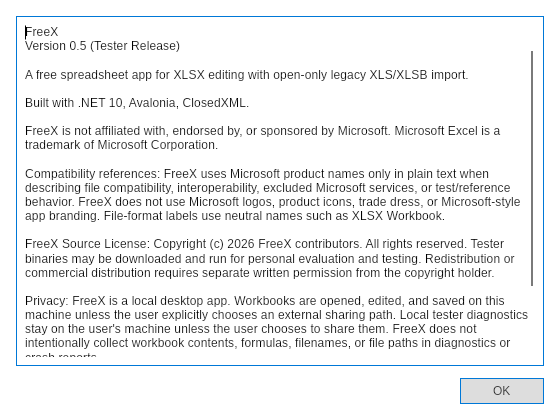
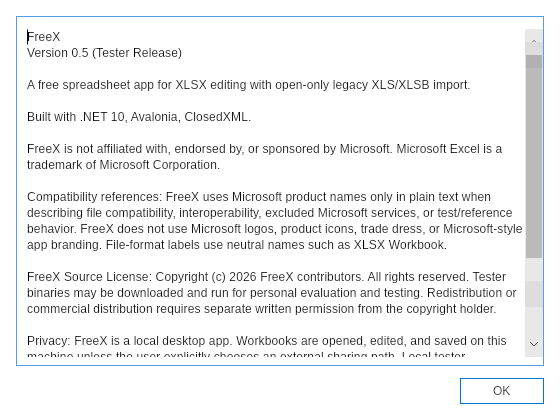
FreeX: align Avalonia About vertical parity

diff --git a/shared/Free.Shared.Shell.Avalonia/AvaloniaAboutDialog.cs b/shared/Free.Shared.Shell.Avalonia/AvaloniaAboutDialog.cs
@@ -42,7 +42,12 @@ public class AvaloniaAboutDialog : AvaloniaDialogWindow
             AcceptsReturn = true,
             TextWrapping = TextWrapping.Wrap,
             FontSize = AboutDialogMetrics.AvaloniaTextFontSize,
-            Padding = new Thickness(AboutDialogMetrics.TextPadding),
+            Padding = new Thickness(
+                AboutDialogMetrics.AvaloniaTextPaddingLeft,
+                AboutDialogMetrics.AvaloniaTextPaddingTop,
+                AboutDialogMetrics.AvaloniaTextPaddingRight,
+                AboutDialogMetrics.TextPadding),
+            LineHeight = AboutDialogMetrics.AvaloniaTextLineHeight,
             BorderThickness = new Thickness(1),
             MinHeight = AboutDialogMetrics.TextMinHeight,
         };
@@ -57,10 +62,10 @@ public class AvaloniaAboutDialog : AvaloniaDialogWindow
         AutomationProperties.SetHelpText(_aboutTextBox, helpText);
 
         Content = CreateContent(okAutomationId, helpText);
+        ApplyAboutVisualChrome();
         Opened += (_, _) =>
         {
-            _aboutTextBox.FontSize = AboutDialogMetrics.AvaloniaTextFontSize;
-            _aboutTextBox.Padding = new Thickness(AboutDialogMetrics.TextPadding);
+            ApplyAboutVisualChrome();
             FocusInitialKeyboardTarget();
         };
     }
@@ -101,6 +106,26 @@ public class AvaloniaAboutDialog : AvaloniaDialogWindow
         root.Children.Add(buttonRow);
         root.Children.Add(_aboutTextBox);
         return root;
+    }
+
+    private void ApplyAboutVisualChrome()
+    {
+        // Reuse the shared read-only document scrollbar/focus treatment, then retain the About
+        // host's measured bounds while correcting its line box and vertical viewport inset.
+        AvaloniaCompactDialogChrome.ApplyAvaloniaReadOnlyDocumentTemplatePadding(
+            _aboutTextBox,
+            AboutDialogMetrics.TextPadding);
+        _aboutTextBox.Margin = new Thickness(0);
+        _aboutTextBox.Padding = new Thickness(
+            AboutDialogMetrics.AvaloniaTextPaddingLeft,
+            AboutDialogMetrics.AvaloniaTextPaddingTop,
+            AboutDialogMetrics.AvaloniaTextPaddingRight,
+            AboutDialogMetrics.TextPadding);
+        _aboutTextBox.FontSize = AboutDialogMetrics.AvaloniaTextFontSize;
+        _aboutTextBox.LineHeight = AboutDialogMetrics.AvaloniaTextLineHeight;
+        // WPF's About action button has a white resting surface; preserve the shared button
+        // metrics and border while correcting this authority-specific fill.
+        _okButton.Background = Brushes.White;
     }
 
     private void FocusInitialKeyboardTarget()

diff --git a/tests/FreeX.App.Avalonia.Tests/AboutDialogParityTests.cs b/tests/FreeX.App.Avalonia.Tests/AboutDialogParityTests.cs
@@ -1,3 +1,4 @@
+using Avalonia;
 using Avalonia.Automation;
 using Avalonia.Controls;
 using Avalonia.Headless;
@@ -30,6 +31,12 @@ public sealed class AboutDialogParityTests
                 .Single(textBox => AutomationProperties.GetAutomationId(textBox) == "AboutFreeXText");
             text.IsReadOnly.Should().BeTrue();
             text.FontSize.Should().Be(AboutDialogMetrics.AvaloniaTextFontSize);
+            text.Padding.Should().Be(new Thickness(
+                AboutDialogMetrics.AvaloniaTextPaddingLeft,
+                AboutDialogMetrics.AvaloniaTextPaddingTop,
+                AboutDialogMetrics.AvaloniaTextPaddingRight,
+                AboutDialogMetrics.TextPadding));
+            text.LineHeight.Should().Be(AboutDialogMetrics.AvaloniaTextLineHeight);
             text.Text.Should().Contain("A free spreadsheet app for XLSX editing");
             text.Text.Should().Contain("Built with .NET 10, Avalonia, ClosedXML.");
             text.Text.Should().Contain("Help > Legal Notices");

diff --git a/shared/Free.Shared.Shell/AboutDialogMetrics.cs b/shared/Free.Shared.Shell/AboutDialogMetrics.cs
@@ -11,6 +11,13 @@ public static class AboutDialogMetrics
     // Linux text rendering needs this measured 0.3 DIP adjustment to match the WPF authority's
     // line placement at the shared 560x420 client capture size.
     public const double AvaloniaTextFontSize = 12.3;
+    // Avalonia's default multiline line box is shorter than WPF's 12px dialog line box. These
+    // named host corrections keep paragraph spacing and the first visible line aligned without
+    // changing the shared WPF metrics.
+    public const double AvaloniaTextPaddingLeft = TextPadding + 2;
+    public const double AvaloniaTextPaddingTop = TextPadding + 4;
+    public const double AvaloniaTextPaddingRight = 0;
+    public const double AvaloniaTextLineHeight = 16;
     public const double TextMinHeight = 220;
     public const double TextPadding = 8;
     public const double RootMargin = 16;

diff --git a/docs/parity/avalonia-parity-wave134-freex-about-20260804.md b/docs/parity/avalonia-parity-wave134-freex-about-20260804.md
@@ -1,0 +1,39 @@
+# Avalonia/WPF Parity Wave 134: FreeX About Dialog
+
+Date: 2026-08-04
+
+## Scope
+
+The shared Avalonia About realization now uses the existing read-only document
+chrome for the WPF-sized scrollbar lane and focus treatment, with named About
+metrics for the measured Avalonia line box and vertical viewport inset. The
+About action button keeps the shared size and border but uses the WPF authority's
+white resting surface. WPF source and unrelated dialogs were not changed.
+
+## Evidence and metrics
+
+Fresh matched production captures were generated at 560x420 logical pixels:
+
+| Pair | Triage | Sample mean | Luma delta | Non-background delta |
+| --- | ---: | ---: | ---: | ---: |
+| Wave 130 baseline | 0.107196 | 0.071472 | 0.013961 | 0.021484 |
+| Wave 134 final | **0.077246** | **0.057872** | 0.005549 | 0.013546 |
+
+The pair has zero raw pixel-size mismatch, zero logical-size mismatch, and no
+blank capture failures. The fresh WPF PNG is byte-identical to the existing
+canonical authority; the fresh Avalonia PNG and manifest provenance are promoted
+to the canonical Avalonia capture.
+
+## Verification
+
+- `dotnet test tests\FreeX.App.Avalonia.Tests\FreeX.App.Avalonia.Tests.csproj --configuration Release --filter FullyQualifiedName~AboutDialogParityTests --logger "console;verbosity=minimal" -m:1 --no-restore`: 1 passed.
+- `dotnet build src\FreeX.App.Host\FreeX.App.Host.csproj --configuration Release -m:1`: 0 warnings, 0 errors.
+- Full WPF `--parity-capture` route: About captured at 560x420, process exit 0.
+- `tools\Run-LinuxParityCapture.ps1` for `dialog.About`: `app_exit=0`, `capture_validated=true`, 560x420.
+- Fresh paired evidence summary generated in a temporary path; the checked-in global summary was not edited.
+
+## Residual
+
+WPF and Avalonia continue to differ in glyph rasterization, platform-specific
+About text, and the realized scrollbar thumb/document length. The remaining
+delta is informational rather than a functional or logical-size mismatch.
